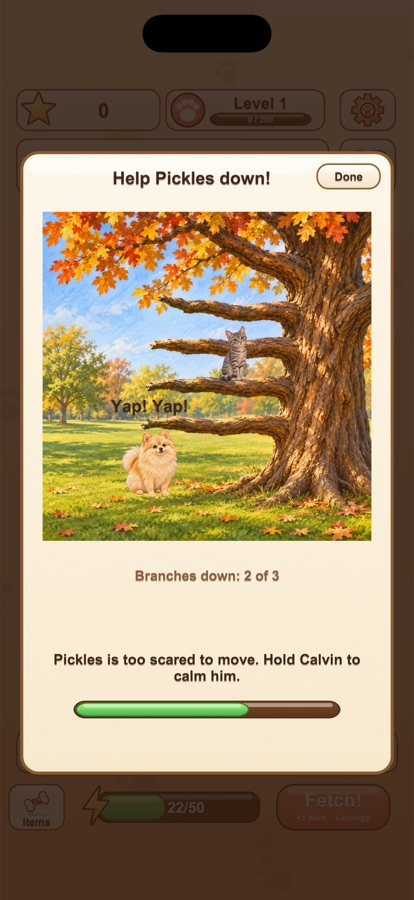
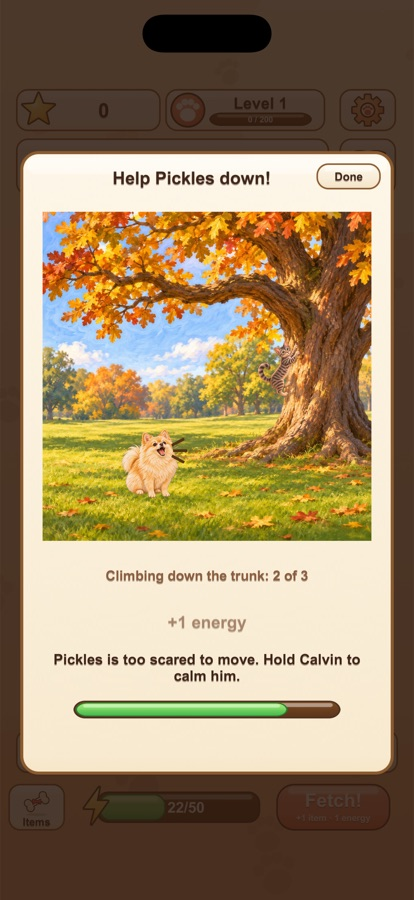
Show Calvin's park games with the new oak and climbing Pickles

Changed region(s): [[0.087, 0.2178, 0.8986, 0.6533], [0.4058, 0.6844, 0.6087, 0.7156], [0.5797, 0.7778, 0.6957, 0.8089]]

diff --git a/index.html b/index.html
@@ -42,21 +42,21 @@
     </section>
 
     <section class="callout">
-      <img src="images/8-park.jpg" alt="Help Pickles down: Calvin the Pomeranian yapping on the grass while Pickles the tabby cat sits on a branch of a big autumn oak" loading="lazy">
+      <img src="images/8-park.jpg" alt="Help Pickles down: Pickles the tabby cat climbing down a big autumn oak while Calvin the Pomeranian waits on the grass" loading="lazy">
       <div>
         <span class="new">New</span>
         <h2>Meet Calvin and Pickles</h2>
         <p>Calvin is a fluffy little cream Pomeranian whose Saturday game of fetch takes a turn when he spots a cat stuck up an oak tree. His three-chapter story comes with three new park games, with yaps and meows to match:</p>
         <ul>
-          <li><strong>Help Pickles down!</strong> Press and hold to keep Calvin calm so the cat can climb down a branch at a time. Let go and he starts yapping.</li>
+          <li><strong>Help Pickles down!</strong> Press and hold to keep Calvin calm so the cat can climb down the oak's trunk, a little at a time. Let go and he starts yapping.</li>
           <li><strong>Dog-and-cat fetch.</strong> Flick the ball across the park and watch Calvin and Pickles take turns chasing it.</li>
           <li><strong>Catch the ball!</strong> Pickles knocks the ball out of the tree, and you slide Calvin under its shadow to catch it.</li>
         </ul>
         <p>Like the other mini-games, there's no timer and no way to fail, and each one gives a bit of bonus energy the first time you play it. Look for Calvin from level 22.</p>
         <div class="themes">
-          <figure><img src="images/howto/howto-15-hush.jpg" alt="Help Pickles down: Calvin yapping below the oak while Pickles waits on a branch" loading="lazy"><figcaption>Help Pickles down!</figcaption></figure>
+          <figure><img src="images/howto/howto-15-hush.jpg" alt="Help Pickles down: Pickles clinging to the oak's trunk while Calvin waits on the grass" loading="lazy"><figcaption>Help Pickles down!</figcaption></figure>
           <figure><img src="images/howto/howto-16-fetch.jpg" alt="Dog-and-cat fetch: Calvin carrying the tennis ball back while Pickles watches" loading="lazy"><figcaption>Fetch</figcaption></figure>
-          <figure><img src="images/howto/howto-17-catch.jpg" alt="Catch the ball: Pickles on a high branch with the ball, Calvin waiting on the grass" loading="lazy"><figcaption>Catch!</figcaption></figure>
+          <figure><img src="images/howto/howto-17-catch.jpg" alt="Catch the ball: Pickles lying on the oak's big branch next to the ball, Calvin waiting on the grass" loading="lazy"><figcaption>Catch!</figcaption></figure>
         </div>
       </div>
     </section>

diff --git a/how-to-play/index.html b/how-to-play/index.html
@@ -130,10 +130,10 @@
     </section>
 
     <section class="step">
-      <img src="../images/howto/howto-15-hush.jpg" alt="Help Pickles down: Calvin yapping below the oak while Pickles waits on a branch" loading="lazy">
+      <img src="../images/howto/howto-15-hush.jpg" alt="Help Pickles down: Pickles clinging to the oak's trunk while Calvin waits on the grass" loading="lazy">
       <div>
         <h2>15. Help Pickles down</h2>
-        <p>In Calvin's first chapter, tap <strong>Help Pickles down!</strong> Press and hold anywhere to keep Calvin calm, and Pickles climbs down one branch at a time. Let go and Calvin starts yapping, so she waits. At the lowest branch, tap <strong>Shake the treat bag!</strong> and she hops down to touch noses.</p>
+        <p>In Calvin's first chapter, tap <strong>Help Pickles down!</strong> Press and hold anywhere to keep Calvin calm, and Pickles climbs off the branch and down the oak's trunk, a little at a time. Let go and Calvin starts barking, so she waits. Near the bottom, tap <strong>Shake the treat bag!</strong> and she hops down to touch noses.</p>
       </div>
     </section>
 
@@ -146,7 +146,7 @@
     </section>
 
     <section class="step">
-      <img src="../images/howto/howto-17-catch.jpg" alt="Catch the ball: Pickles on a high branch with the ball, Calvin waiting on the grass" loading="lazy">
+      <img src="../images/howto/howto-17-catch.jpg" alt="Catch the ball: Pickles lying on the oak's big branch next to the ball, Calvin waiting on the grass" loading="lazy">
       <div>
         <h2>17. Catch the ball</h2>
         <p>In Calvin's third chapter, Pickles knocks the ball out of the oak. Drag Calvin left or right under the shadow on the grass before it lands. Miss, and Pickles just knocks it down again. Three catches in all.</p>
